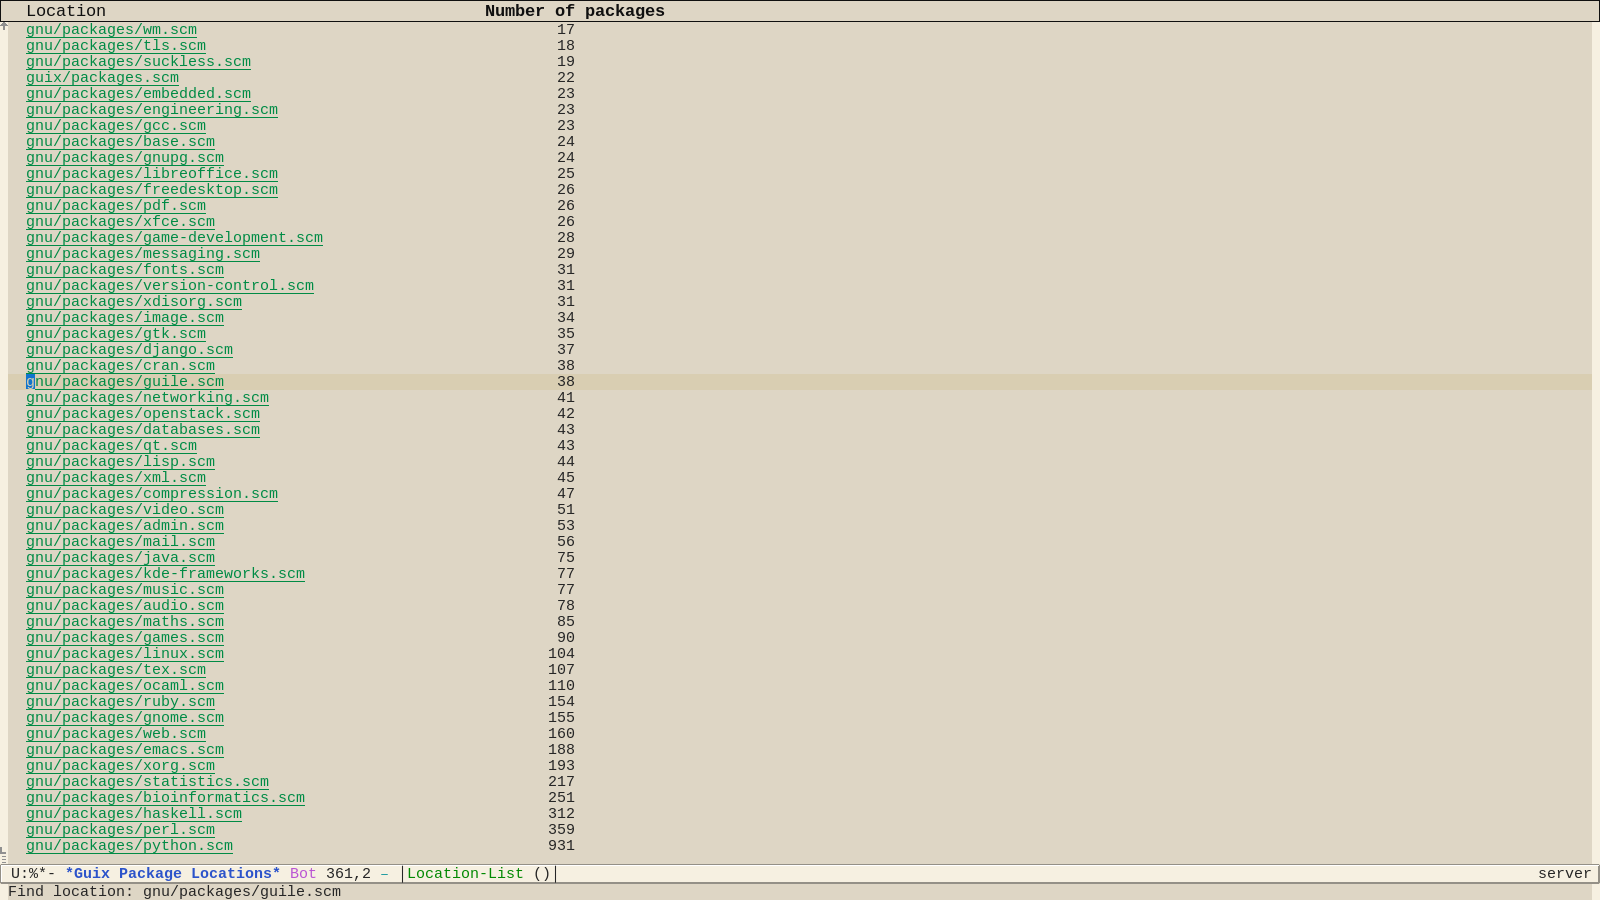
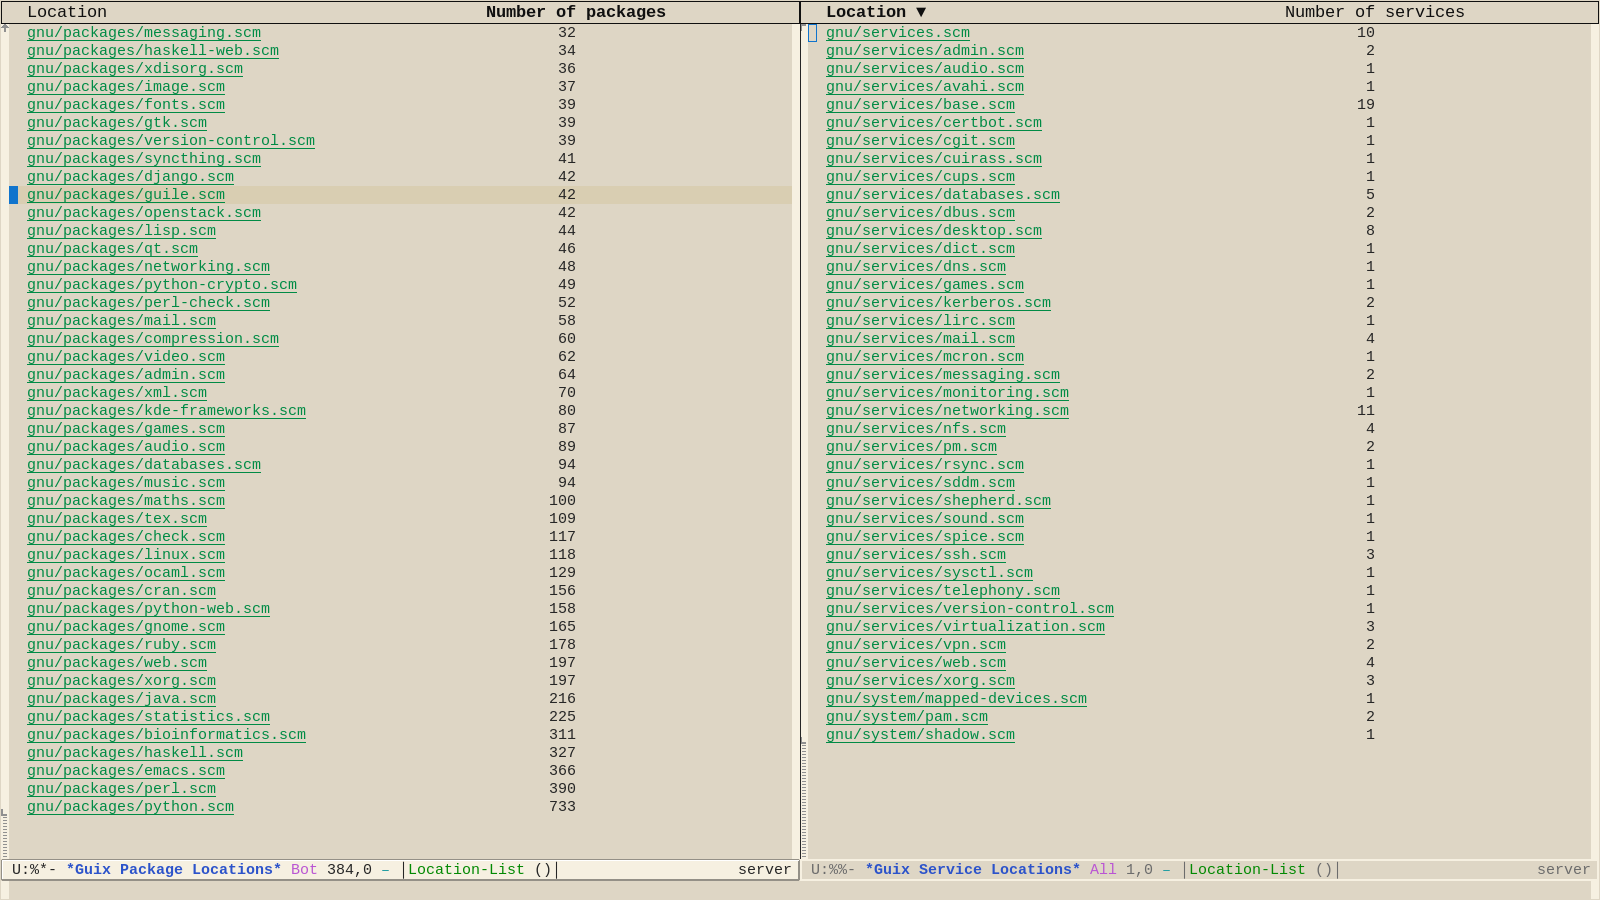
Update "Locations" screenshot
Now it displays package and service locations.

* images/screenshots/locations.png: Updated file.
* images/screenshots/thumbs/locations.png: Regenerated file.
* scheme/site/screenshots.scm (%images): Adjust description.
* screenshots.html: Regenerated.

Changed region(s): [[0.0, 0.0, 1.0, 0.9956]]

diff --git a/screenshots.html b/screenshots.html
@@ -119,11 +119,13 @@
       <a target="_blank" href=
       "images/screenshots/locations.png"><img src=
       "images/screenshots/thumbs/locations.png" alt=
-      "List of locations" width="320" height="180"></a>
+      "Lists of locations" width="320" height="180"></a>
       <div class="desc">
         <a href=
-        "manual/latest/html_node/Package-Locations.html">Package
-        locations</a>
+        "manual/latest/html_node/Package-Locations.html">Package</a>
+        and <a href=
+        "manual/latest/html_node/Services.html">Service</a>
+        locations
       </div>
     </div>
   </div>
